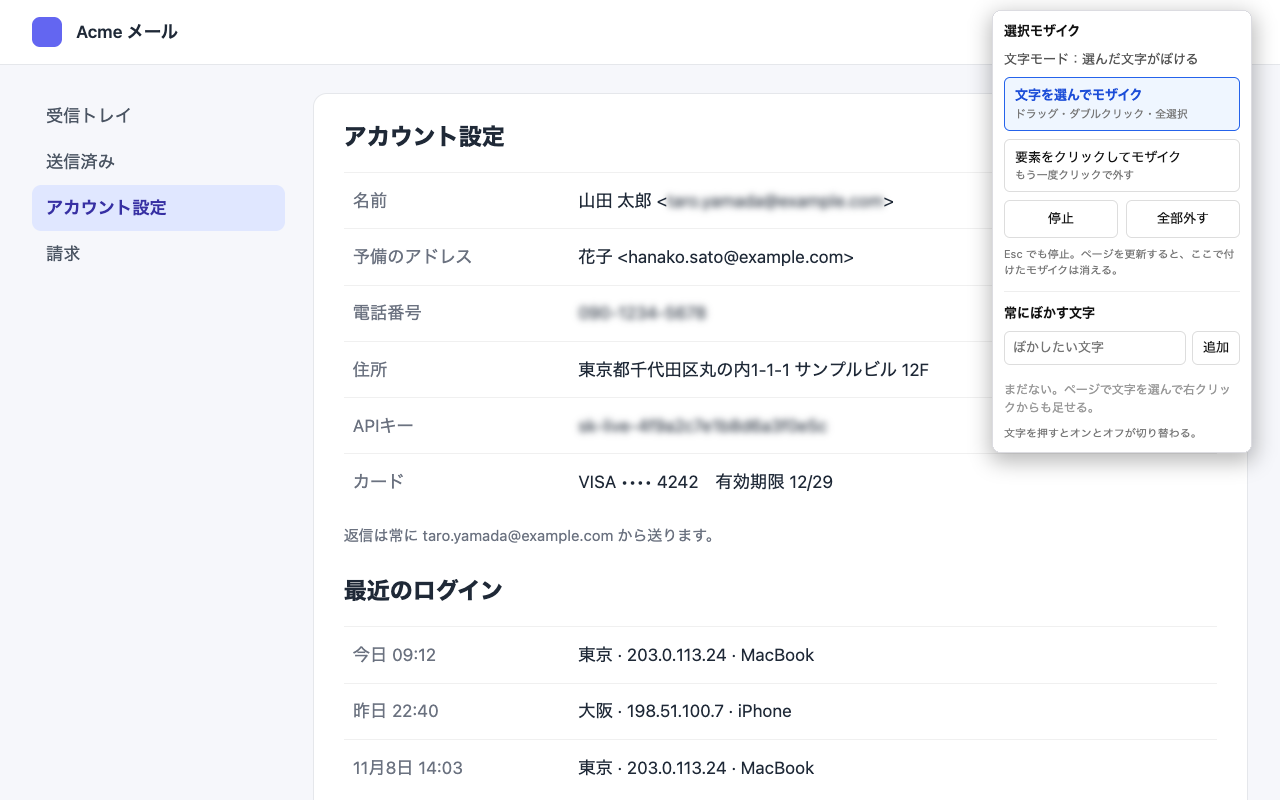
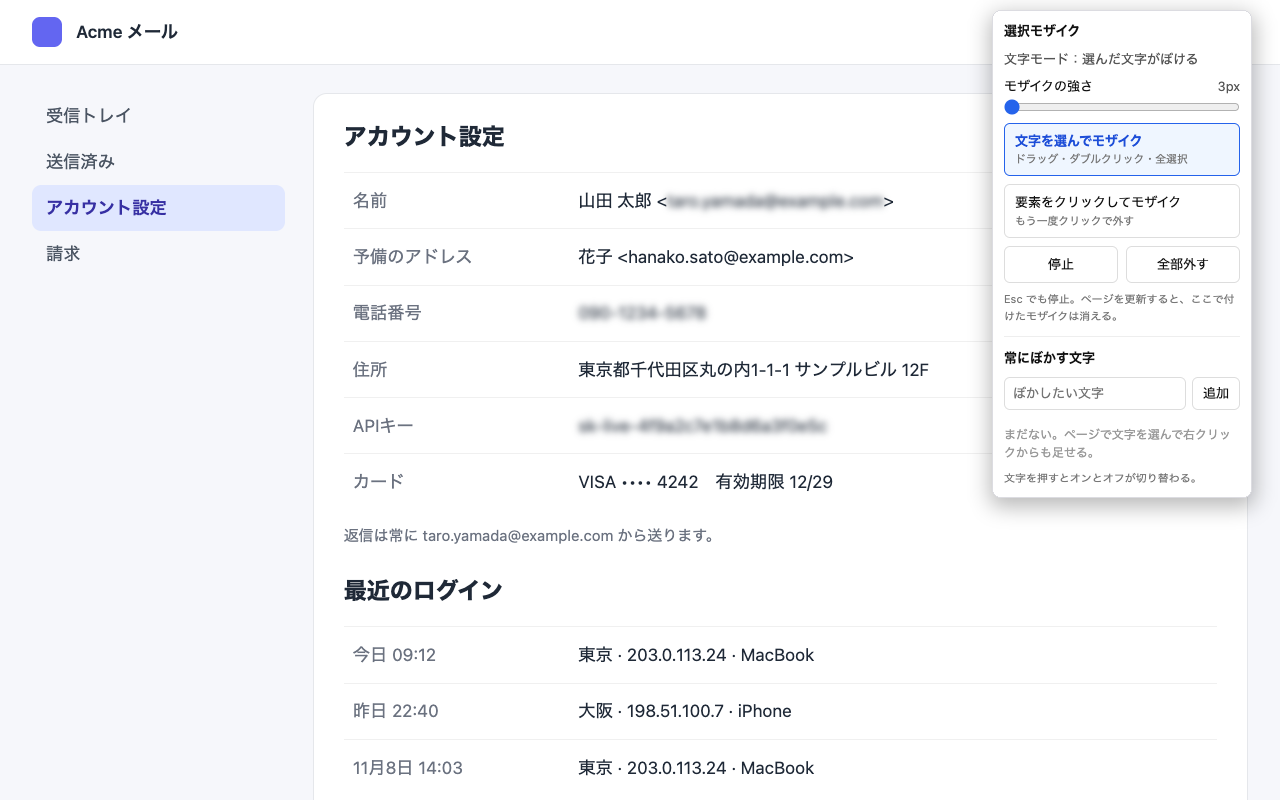
Update store assets for the blur strength slider and bump to 1.1.0
- Retake ja/en screenshots 1 and 2 with the slider in the popup (store/ and docs/assets/)
- submit.html: 1.1.0 zip, strength in both descriptions, storage justification, and review steps

Changed region(s): [[0.75, 0.3125, 1.0, 0.6562], [0.7812, 0.0938, 0.9688, 0.2812]]

diff --git a/store/submit.html b/store/submit.html
@@ -50,8 +50,8 @@
   <h2 id="pkg">パッケージ</h2>
   <div class="field">
     <div class="head"><span class="label">アップロードする zip</span><button class="copy">コピー</button></div>
-    <pre>~/Documents/select-mosaic/dist/select-mosaic-1.0.0.zip</pre>
-    <div class="note">全サイトへのアクセス権限を外したあとに作り直したものです。</div>
+    <pre>~/Documents/select-mosaic/dist/select-mosaic-1.1.0.zip</pre>
+    <div class="note">モザイクの強さのスライダを足した版です。すでに公開している場合は「パッケージ」から新しい zip をアップロードします。</div>
   </div>
 
   <h2 id="listing-en">ストアの掲載情報：英語（デフォルト）</h2>
@@ -67,10 +67,11 @@ Blur text you select, elements you click, or words you save. Hide personal info 
 • Text mode: select text by dragging, double-clicking, or selecting all, and it gets blurred right away.
 • Element mode: hover to highlight an element, click to blur it, click again to remove the blur.
 • Always blur: save words such as your email address, name, or API key. Every match on the page is blurred, including content that loads later. Click a saved word to turn it on or off, or remove it from the list. Add words from the popup or from the right-click menu.
+• Blur strength: use the slider in the popup to set the blur from 3px to 10px for selected text and saved words. Element blur scales with it. Blur already on the page updates right away, and the setting is kept.
 
 Blur applies to the tab where you open the popup or use the right-click menu. Reloading the page removes it. Press Esc or Stop to end a mode.
 
-Privacy: no data collection and no network requests. Your saved words stay in your browser. The extension does not ask for access to all sites. The source code is on GitHub under the MIT license.</pre>
+Privacy: no data collection and no network requests. Your saved words and blur strength stay in your browser. The extension does not ask for access to all sites. The source code is on GitHub under the MIT license.</pre>
   </div>
   <div class="field">
     <div class="head"><span class="label">カテゴリ</span><span class="note">プルダウンで選びます</span></div>
@@ -93,10 +94,11 @@ AIに「モザイクして」と頼まなくても、隠したい文字を選ん
 ・文字モード：ドラッグ、ダブルクリック、全選択で選んだ文字がすぐにぼけます。
 ・要素モード：マウスを乗せた要素が枠で囲まれ、クリックするとぼけます。もう一度クリックすると外れます。
 ・常にぼかす文字：メールアドレス、名前、APIキーなどを登録すると、ページ内で見つかった場所がすべてぼけます。後から表示された部分にも当たります。一覧の文字を押すとオンとオフが切り替わり、×で消せます。ポップアップか右クリックのメニューから登録できます。
+・モザイクの強さ：ポップアップのスライダで、文字と登録した文字のぼかしを3pxから10pxまで変えられます。要素のぼかしもそれに合わせて強くなります。かけたぼかしにもすぐ反映され、設定は次も残ります。
 
 ぼかしは、ポップアップか右クリックのメニューを使ったタブにかかります。ページを更新すると消えます。Esc か「停止」でモードを終えます。
 
-プライバシー：データを集めず、通信もしません。登録した文字はお使いのブラウザの中だけに残ります。すべてのサイトへのアクセス権限は求めません。ソースコードは MIT ライセンスで GitHub に公開しています。</pre>
+プライバシー：データを集めず、通信もしません。登録した文字とモザイクの強さはお使いのブラウザの中だけに残ります。すべてのサイトへのアクセス権限は求めません。ソースコードは MIT ライセンスで GitHub に公開しています。</pre>
   </div>
 
   <h2 id="assets">画像アセット</h2>
@@ -164,7 +166,7 @@ AIに「モザイクして」と頼まなくても、隠したい文字を選ん
   </div>
   <div class="field">
     <div class="head"><span class="label">storage</span><button class="copy">コピー</button></div>
-    <pre>Used to save the user's "Always blur" word list and the on/off state of each word locally in chrome.storage.local. Nothing is synced or sent.</pre>
+    <pre>Used to save the user's "Always blur" word list, the on/off state of each word, and the blur strength setting locally in chrome.storage.local. Nothing is synced or sent.</pre>
   </div>
   <div class="field">
     <div class="head"><span class="label">contextMenus</span><button class="copy">コピー</button></div>
@@ -212,7 +214,8 @@ AIに「モザイクして」と頼まなくても、隠したい文字を選ん
 2. Element mode: open the popup and choose "Blur clicked elements". Hover over the page to see the blue outline, then click a paragraph. It is blurred. Click it again to remove the blur. Press Esc to stop.
 3. Always blur: open the popup, type a word that appears on the page (for example "email") and click Add. Every match on the page is blurred. Click the word in the list to turn it off, and click × to remove it.
 4. Right-click menu: select a word on the page, right-click, and choose "Always blur ...". The word is added to the list and blurred on the page.
-5. Reload the page. All blur disappears.</pre>
+5. Blur strength: open the popup and drag the "Blur strength" slider to 10px. Blur already on the page gets stronger right away. Close and reopen the popup; the slider keeps the value.
+6. Reload the page. All blur disappears.</pre>
   </div>
 </div>
 
